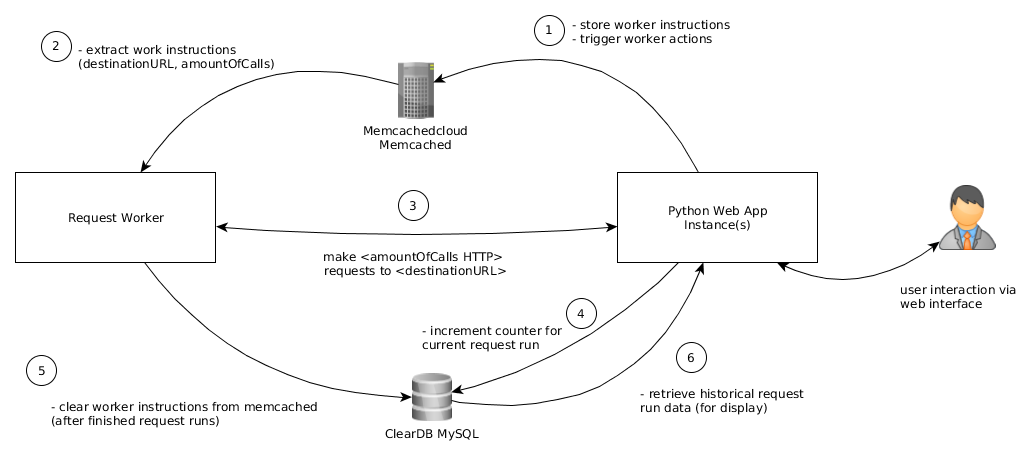
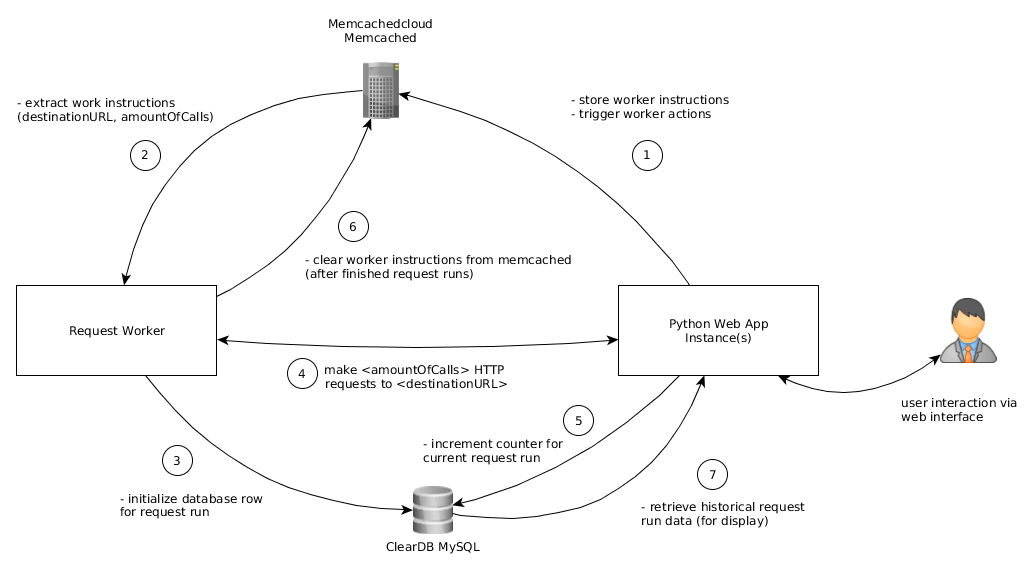
- updated, cleaned up the general documentation

diff --git a/README.md b/README.md
@@ -1,12 +1,12 @@
 # pcf-demo-docs
 
-This document describes the architecture as well as the two main workflows of the PCF Demo application. The demo shall test PWS itself and the marketplace services ClearDB MySQL, 
-Memcached Cloud Memcached and the App Autoscaler. The used approaches may not reflect a sound production setup and were chosen for simplicity.
+This document describes the architecture as well as the two main workflows of the PCF Demo application. The demo tests PWS itself and the marketplace services ClearDB MySQL, 
+Memcached Cloud Memcached and the App Autoscaler. The used approaches do not reflect sound production setups and were chosen for simplicity.
 
 ## Overall Architecture
 
 The application utilizes Python and the Flask (Web) Micro Framework.
-From the Pivotal Web Services Marketplace ClearDB MySQL and Memcached Cloud Memcached are utilized.
+From the Pivotal Web Services Marketplace ClearDB MySQL, Memcached Cloud Memcached and App Autoscaler are utilized.
 
 User interactions happen via the web-based Flask application. The main work is done by two different kinds of background workers. 
 Their purposes and workflows are described in the following sections.
@@ -19,11 +19,11 @@ The user can trigger a parallelized HTTP request run on the load balanced Web Ap
 The (trigger) information is communicated via simple <key,value>-pairs in the attached Memcached. 
 
 Before triggering HTTP calls the request worker inserts an initial database row about the following HTTP call run. All HTTP request runs are identified by their (start) timestamp.
-The according data is persisted in the attached MySQL database and can be viewed later. The request worker uses a Thread Pool to make the HTTP request towards the 
+The according data is persisted in the attached MySQL database and can be viewed later via the web interface. The request worker uses a Thread Pool to make the HTTP request towards the 
 potentially load-balanced (multiple) Web App instances. For every HTTP call the Web App updates the database row about the request run by incrementing a call counter. Since the request
-calls are potentially parallel (loadbalanced web app instances + caller threads), an data update race condition can happen. 
+calls are parallel (loadbalanced web app instances + caller threads), an data update race condition may happen. The demo is actually intended to trigger that race condition.
 
-After the request run is over the workflow can be triggered again. The data of former request runs can be viewed on the 'Receiver Overview' page.
+After the request run is over the workflow can be triggered again. The data of former request runs can be viewed on the 'Receiver Overview' page of the web interface.
 
 ![Request Worker Workflow](pcf-demo-request-worker-workflow.png)
 
@@ -46,7 +46,7 @@ The purpose of the CPU Load Worker is to test the App Autoscaler addon, which sh
 thresholds for an app are set. The app instances shall scale up (upper threshold) or scale down (lower threshold). The idea is to always have an elastic, responsive app while 
 potentially saving money in times with lower demand.
  
-Basically the CPU Load Worker generates useless CPU load when switched on. After time the App Autoscaler addon should scale up or down. The user can switch the behavior (ON or OFF)
+Basically the CPU Load Workers generate useless CPU load when switched on. After time the App Autoscaler addon should scale up or down. The user can switch the behavior (ON or OFF)
 via web interface 'Autoscaler View'. The trigger information is stored and communicated via the attached Memcached store.
 
 ![CPU Load Worker Workflow](pcf-demo-cpuload-worker-workflow.png)
